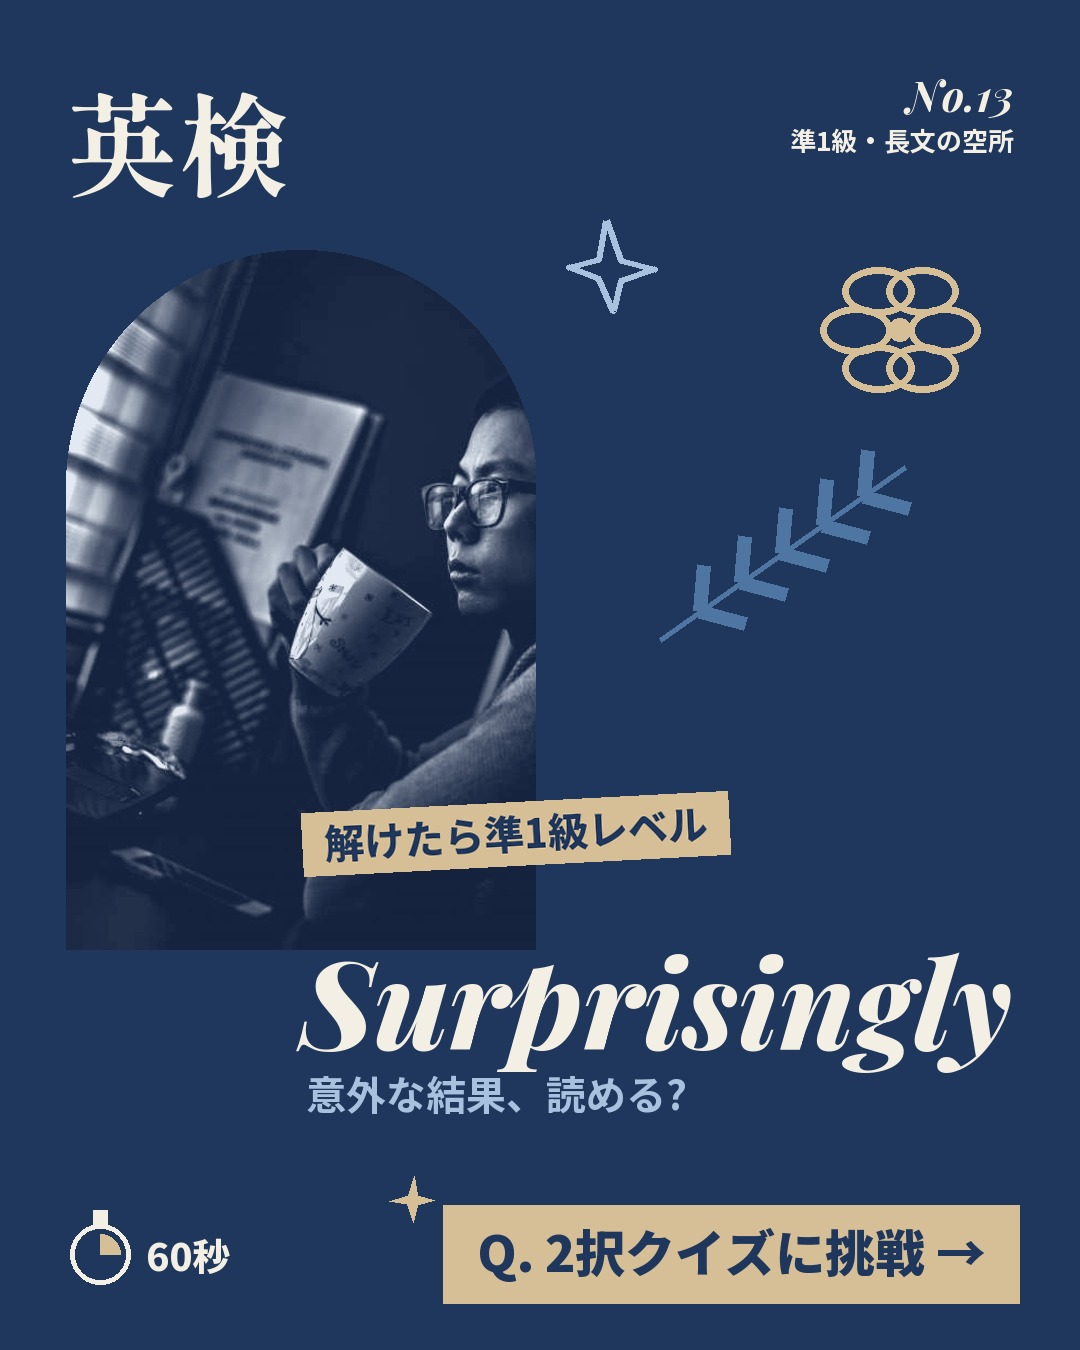
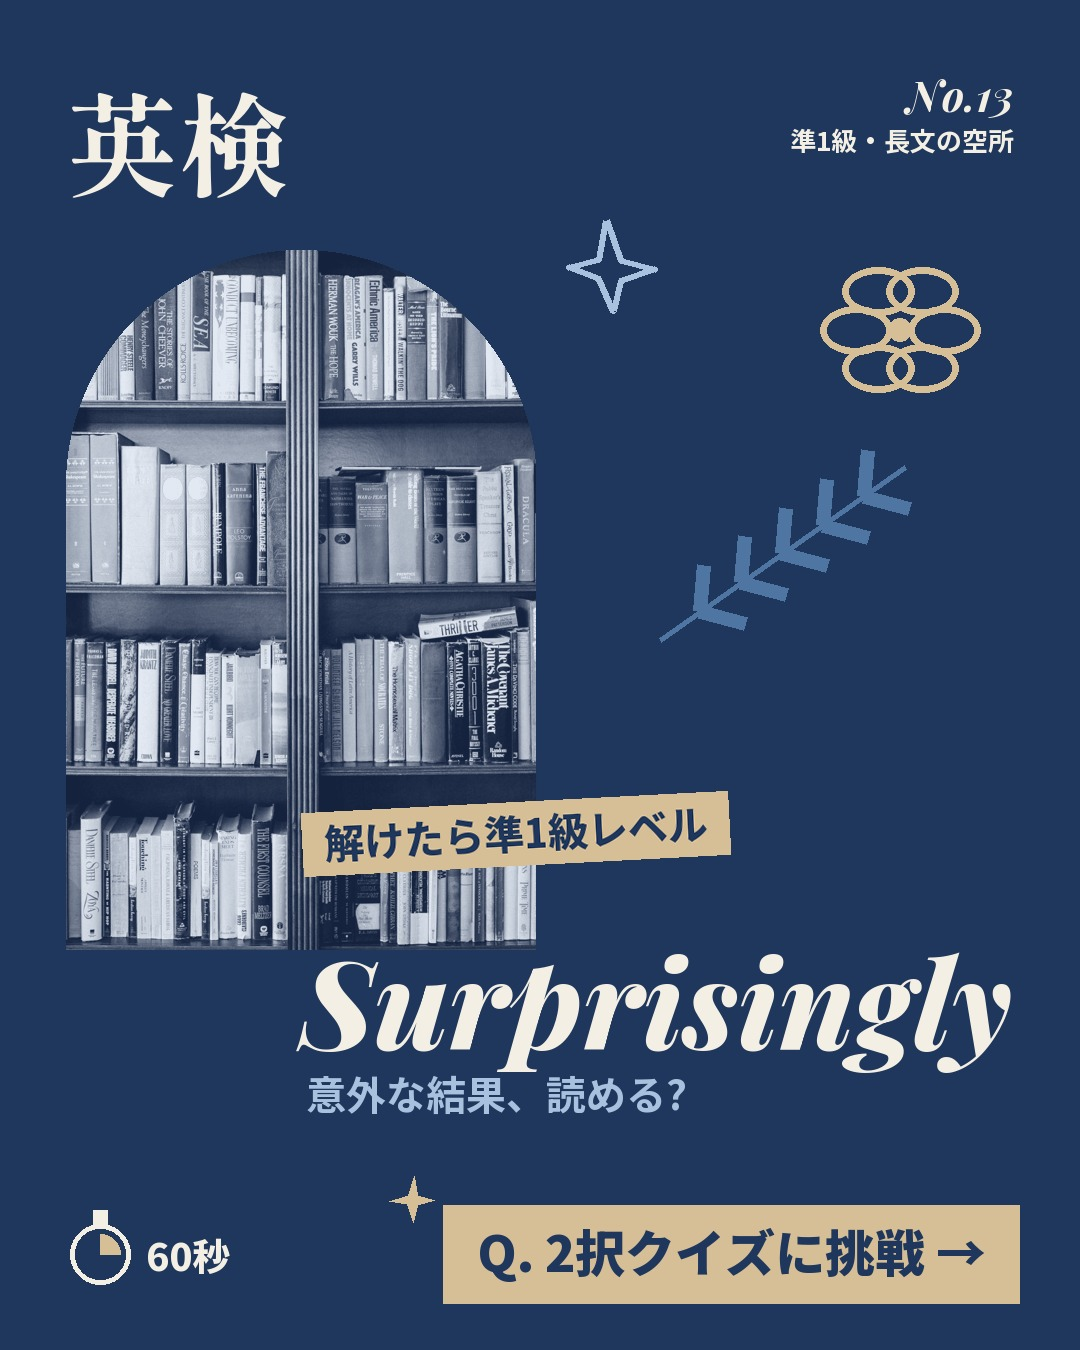
英検: No.10〜33 の表紙写真を全部ちがうものに(StockSnap CC0 を追加)、レイアウト6の見出しが写真に隠れないように

Changed region(s): [[0.0611, 0.1867, 0.5194, 0.7156]]

diff --git a/eiken_cover.py b/eiken_cover.py
@@ -67,7 +67,7 @@ def big(base, word, xy, size, fill, maxw=W - 120):
     while f.getlength(word) > maxw: f = pf(f.size - 6, 800)
     ImageDraw.Draw(base).text(xy, word, font=f, fill=fill, anchor="ls"); return f.size
 
-def make(v, photo, no, teaser, word, line, level="準1級", out=None):
+def make(v, photo, no, teaser, word, line, level="準1級", out=None, photo2="desk_top"):
     if v == 1:  # ネイビー地。左に縦長アーチの写真、見出しは写真に重ねる
         im = Image.new("RGBA", (W, H), NAVY + (255,)); d = ImageDraw.Draw(im)
         put(im, shape(duo(photo, 470, 700), "arch"), (66, 250)); d = ImageDraw.Draw(im)
@@ -107,7 +107,7 @@ def make(v, photo, no, teaser, word, line, level="準1級", out=None):
         put(im, text_im(teaser, go(40, 800), NAVY, (22, 12), SKY).rotate(-2, expand=True, resample=Image.BICUBIC), (66, 220))
         big(im, word, (60, 470), 200, CREAM); d = ImageDraw.Draw(im)
         d.text((70, 540), line, font=go(42, 700), fill=SAND, anchor="ls")
-        for (x, y, a, nm) in ((120, 640, -6, photo), (560, 680, 5, "desk_top")):
+        for (x, y, a, nm) in ((120, 640, -6, photo), (560, 680, 5, photo2)):
             card = Image.new("RGBA", (400, 470), CREAM + (255,)); card.alpha_composite(duo(nm, 360, 360), (20, 20)); put(im, card, (x, y), a)
         tape(im, 230, 620, 180, -8); tape(im, 680, 660, 180, 6); d = ImageDraw.Draw(im)
         sparkle(d, 960, 300, 36, SAND); star(d, 980, 600, 44, SKY, seed=5); header(d, CREAM, no, level)
@@ -115,9 +115,9 @@ def make(v, photo, no, teaser, word, line, level="準1級", out=None):
     else:  # クリーム地。下半分に水色の帯+写真、帯の上にネイビーの座布団
         im = Image.new("RGBA", (W, H), CREAM + (255,)); d = ImageDraw.Draw(im)
         d.rectangle((0, 760, W, H), fill=SKY)
-        put(im, shape(duo(photo, 420, 520), "arch"), (600, 300)); d = ImageDraw.Draw(im)
+        put(im, shape(duo(photo, 400, 470), "arch"), (610, 200)); d = ImageDraw.Draw(im)
         flower(d, 160, 380, 70, SAND); star(d, 470, 300, 40, BLUE, seed=6)
-        big(im, word, (60, 700), 180, NAVY, 560 if len(word) > 9 else W - 120); d = ImageDraw.Draw(im)
+        big(im, word, (60, 740), 180, NAVY); d = ImageDraw.Draw(im)  # 写真の下に全幅で
         put(im, text_im(teaser, go(42, 800), CREAM, (22, 12), NAVY).rotate(2, expand=True, resample=Image.BICUBIC), (66, 820))
         d.text((76, 1010), line, font=go(44, 800), fill=NAVY, anchor="ls"); header(d, NAVY, no, level)
         footer(im, NAVY, NAVY, CREAM, BLUE)

diff --git a/eiken_problems.py b/eiken_problems.py
@@ -205,7 +205,7 @@ MORE4 = [
    [((2, 3), "❸「延滞した人が来なくなった」=罰金が人を遠ざけていた。\nだから 1 が正解。"), ((3,), "2 は罰金をやめる理由になりません。❸は払えない人がいた、という話です。"), ((1, 2, 3), "「なぜやめたのか」の答えは、後ろの具体的な説明(❸)にあります。空所の次の文を必ず読もう。")],
    "図書館の延滞料\n❶延滞した本の罰金をやめた図書館がいくつもある。❷図書館員は、罰金が( ① )ことに気づいたのだ。❸延滞した本を持つ多くの人が、恥ずかしさや払えないことから、図書館に来なくなっていた。",
    [("charge", "請求する"), ("fine", "罰金"), ("librarian", "図書館員"), ("overdue", "期限切れの"), ("embarrassed", "恥ずかしい"), ("keep A away", "Aを遠ざける")]),
- Q2(24, ("上級者でも迷う", "Ironically", "皮肉な結果とは?"), "Wider Roads",
+ Q2(24, ("上級者でも迷う", "Backfire", "逆効果になる理由は?"), "Wider Roads",
    [("To reduce traffic jams, many cities have built wider roads.", 1), ("Ironically, adding lanes often ( ① ).", 2), ("Faster roads encourage more people to drive, so the roads soon become just as crowded as before.", 3)],
    [("leads to more traffic", "交通量を増やす結果になる"), ("solves the problem forever", "問題を永久に解決する")], 1,
    [((2, 3), "❷ Ironically(皮肉なことに)=目的と逆。❸「車で行く人が増え、また混む」。\nだから 1 が正解。"), ((1,), "2 は目的(渋滞を減らす)が成功した場合。Ironically のあとには来ません。"), ((2,), "Ironically / Paradoxically は「狙いと逆の結果」の合図。目的を確認して、その逆を選ぼう。")],
@@ -269,3 +269,10 @@ MORE5 = [
    [("blame", "責める"), ("waste", "ムダにする"), ("educational", "教育的な"), ("value", "価値"), ("certain", "ある種の"), ("problem-solving", "問題解決")]),
 ]
 PROBLEMS += MORE3 + MORE4 + MORE5
+
+# 写真は毎回ちがうものに(2026-11-24〜)。No.10 以降は e01〜e24、ポラロイド2枚目は別の写真
+for _i, _q in enumerate([q for q in PROBLEMS if q["no"] >= 10]):
+    _q["photo"] = f"e{_i + 1:02d}"
+_SECOND = iter(["e25", "coffee_laptop", "laptop_desk", "reading_glasses", "open_book"])
+for _q in PROBLEMS:
+    if _q["no"] >= 10 and _q["layout"] == 5: _q["photo2"] = next(_SECOND)

diff --git a/eiken_set.py b/eiken_set.py
@@ -22,7 +22,7 @@ def build(Q, out):
     out.mkdir(parents=True, exist_ok=True)
     for f in out.glob("0*.png"): f.unlink()
     v, (teaser, word, line) = Q["layout"], Q["cover"]
-    cover(v, Q["photo"], Q["no"], teaser, word, line, Q["level"], out / "01_cover.png")
+    cover(v, Q["photo"], Q["no"], teaser, word, line, Q["level"], out / "01_cover.png", Q.get("photo2", "desk_top"))
     d0 = ImageDraw.Draw(base()); QF, CF, EF = ts.serif(42, 600), ts.serif(40), ts.jp(37, 500)
     ql = ts.wrap_jp(d0, Q["q"], QF, PW); els = [ts.wrap_jp(d0, e["text"], EF, PW) for e in Q["explain"]]
     rooms = [BOTTOM - TOP - 40 - len(ql) * 54 - 20 - len(Q["choices"]) * 86] + [BOTTOM - TOP - 36 - (116 if k == 0 else 0) - len(el) * 60 for k, el in enumerate(els)]
